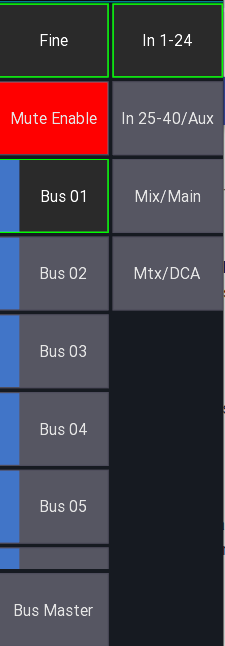
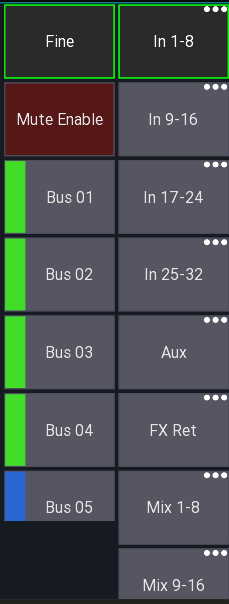
Update documentation

diff --git a/docs/layers.md b/docs/layers.md
@@ -1,7 +1,6 @@
 ## What is a layer?
 A layer defines what channels should be shown in the mixer.
-You can creates an unlimited number of layers and 
-each layer can contain up to 32 channels in a user definable order.
+You can creates an unlimited number of layers and each layer can contain up to 32 channels.
 
 ## Layer settings
 This view lets you configure all layers
@@ -31,15 +30,29 @@ The list in the bottom of the screenshot shows all layers.
 - **Press and hold item** Opens a context menu for editing / deleting
 
 
-## Add new layer
+### Add new layer
 By pressing the `+` menu item you can add a new layer to the list. It will be appended to the bottom.
 
-## Reset
-Press the back arrow in the top right to reset all layers. This will take the currently selected `Channels per layer` into account.
+### Reset
+Press the back arrow in the top right to reset all layers according to the current `Channels per layer` setting.
 
 ## Editing a layer
 A layer can be edited by selecting `Edit` from the context menu or by **Press and hold** a layer button directly from the mixer view.
 
-Use the `+` button to add more channels / [IDCAs](layer-idcas.md) to the layer.
+
+In the `Layer Setup` view you can see all assigned channels at the bottom. You can drag them to change the order of the channels.
+Use the `+`  in the menu to add [IDCAs](layer-idcas.md) or blank items.
 
 ![Edit channel order](gif/layer-channel-drag.gif)
+
+### Target Mix
+The `Target Mix` option allows you to select which mix of a channel you want to add to the layer.
+
+This is useful if you want for example to be able to change an FX send for your main vocals without using sends on faders. 
+
+By default the `Any` option is selected. `Any` will cause the channel to follow the currently selected sends on fader mix (default app behavior). Any other selection will cause all channels added in that mode to be fixed to the selected mix.
+
+
+In the follwing example I'm adding 3x `Ch 1` but with different target mixes. As you can see in the mixer view, each fader now controls the send level to the selected mix.
+
+![Target Mix Example](gif/layer-target-mix.gif)

diff --git a/docs/ui-controls.md b/docs/ui-controls.md
@@ -3,8 +3,21 @@ This page shows the most common UI controls and how to use them.
 
 You can always also use **right click** instead of **press and hold** if you're using a mouse.
 
-## Knobs
+## Buttons
 
+| On | Off |
+| --- | --- |
+| ![Button On](img/button-on.png)| ![Button Off](img/button-off.png) |
+
+### Long click
+![Button long click](img/button-long-click.png)
+
+Buttons with an indicator (`...`) in the top right have a long-click action.
+You can press and hold or right click the button.
+
+
+
+## Knobs
 ### Default behaviour
 - **Drag** to change the value
 - **Press and hold** to open a popup for more precise control
@@ -48,15 +61,15 @@ Default behavior:
 ![Channel buttons](img/channel-buttons.png)
 
 ## Mixer sidebar
-![Sidebar](img/sidebar.png)
+![Sidebar](img/sidebar-soflist.png)
 
 Contains two **scrollable** bars for layer and access to [sends on faders](sends-on-faders.md)
 
 ### Fine mode
-Toggles the fine mode. This will affect every channel fader in the app.
+When enabled faders will be more less sensitive and you can make smaller adjustments.
 
 ### Mute enable
-Toggles the mute enable mode. This will enable/disable every channel mute button in the app.
+Enables/disables every channel mute button in the app.
 
 ### Layer buttons
 Each button provides access to a single layer
@@ -66,14 +79,13 @@ Each button provides access to a single layer
 
 > PC only
 
-- **Press and hold** Open context menu, also allows you to open the layer in a new window.
-
-
-
+- **Press and hold** Allows you to open the layer in a separate window.
 
 
 
 ## Menu bar
+![Mixer menu](img/mixer-menu.png)
+
 The top menu provides access to other views and options. Depending on the current platform and view you're in the items will change.
 
 ### Status
@@ -82,7 +94,6 @@ On the left side the current view and additional information are shown
 ### Menu items
 The menu items are shown in a fixed order. If too many items are in the menu, they will be hidden and a `...` item is shown to access other items.
 
-![Mixer menu](img/mixer-menu.png)
 
 ## Quick access
 ### Mute groups

diff --git a/docs/feature-list.md b/docs/feature-list.md
@@ -15,15 +15,16 @@ It is possible to use one license on multiple devices of the same platform (e.g.
 ## Compatible mixers
 Please make sure your mixer has the latest compatible firmware
 
-| App | Mixers | Required firmware | Notes | 
+| Feature name | Mixers | Required firmware | Notes | 
 | -- | -- | -- | -- |
-| XM32 | Any X32/M32 mixer | V1.15 or newer | |
-| XAir | Any XAir mixer | V1.12 or newer | |
-| Qu | Any Qu mixer | V1.90 or newer | |
-| SQ | Any SQ mixer | V1.4.1 or newer | |
-| GLD | Any GLD mixer | V1.61 | |
-| Si | Any Si Performer/Expression/Impact | V1.8 / V1.8 / V1-2 | See [HiQNet guide](soundcraft/hiqnet.md)
-| Wing | Any Wing mixer | Any | |
+| XM32 | Behringer X32/M32 mixer | V1.15 or newer | |
+| XAir | Behringer XAir or Midas MR mixer | V1.12 or newer | |
+| Qu | A&H Qu mixer | V1.90 or newer | |
+| SQ | A&H SQ mixer | V1.4.1 or newer | |
+| GLD | A&H GLD mixer | V1.61 | |
+| Si | Si Performer/Expression/Impact | V1.8 / V1.8 / V1-2 | See [HiQNet guide](soundcraft/hiqnet.md)
+| Vi | Vi 1 | Latest | See [HiQNet guide](soundcraft/hiqnet.md)
+| Wing | Behringer Wing mixer | Any | |
 
 
 ## Features
@@ -34,7 +35,8 @@ This page lists all the special features in the professional version.
 | Channel parameters | X | X | Any | Any |
 | FX access | X | X | XM32, XAir, Qu | Any |
 | Console settings | X | X | XM32, XAir, Qu | Any |
-| Layers | X | X | Any | Any |
+| [Layers](layers.md)  | X | X | Any | Any |
+| [Fixed layer mix](layers.md) | X | | Any | Any |
 | [Unlimited DCA](layer-idcas.md) | X | X | Any | Any |
 | [App-Link](app-link.md) | X | X | Any | Any |
 | RTA | X | X | Any\* | Any |
